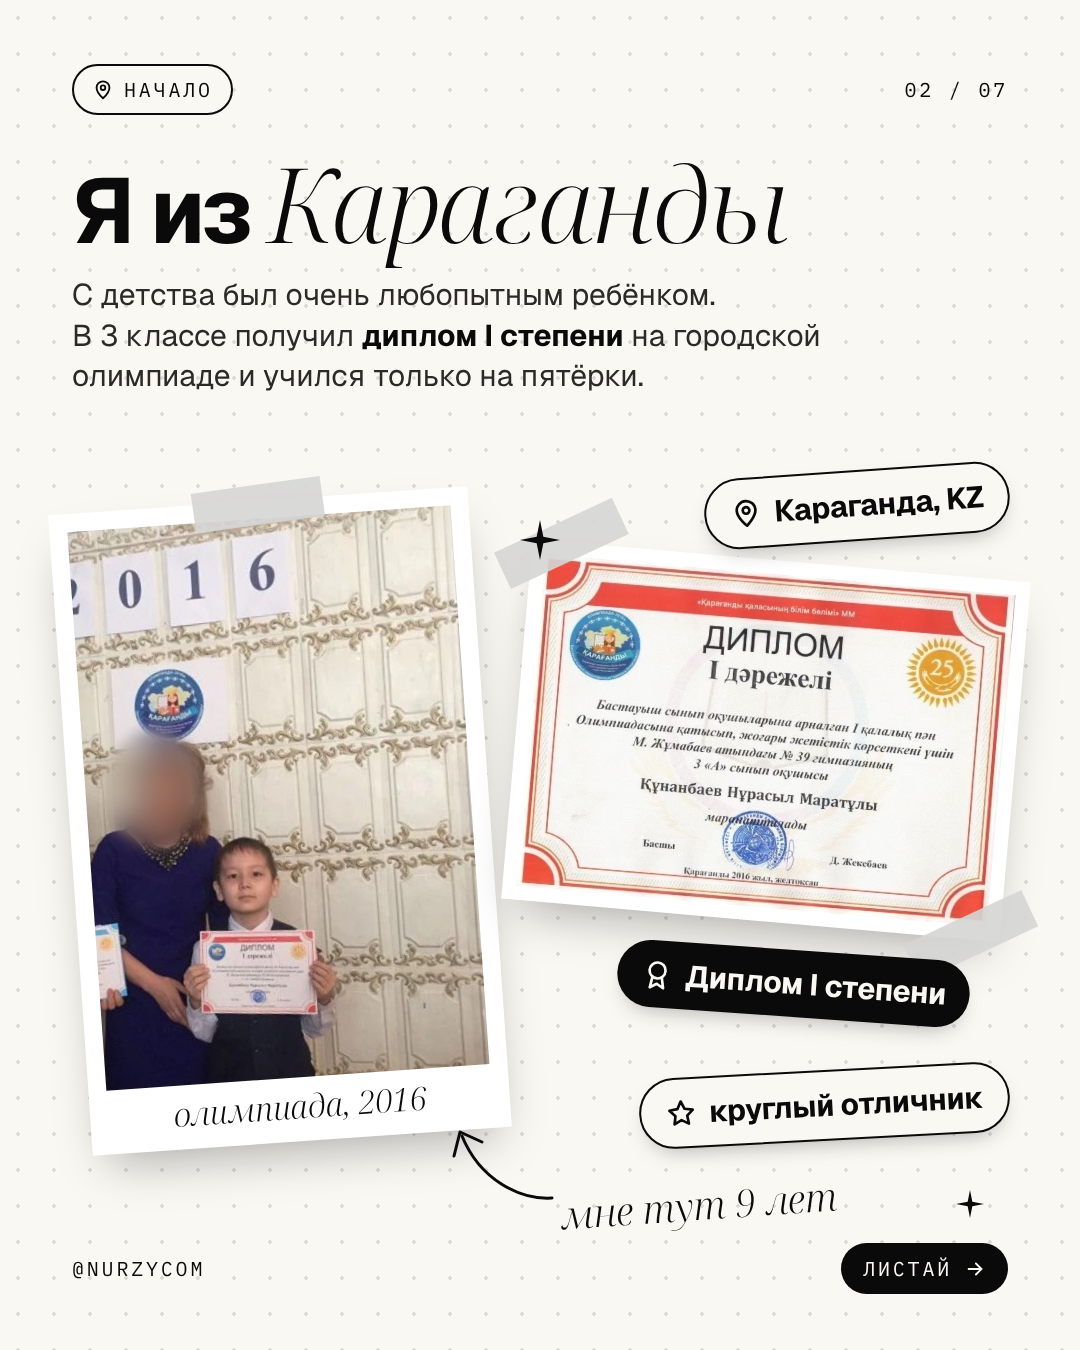
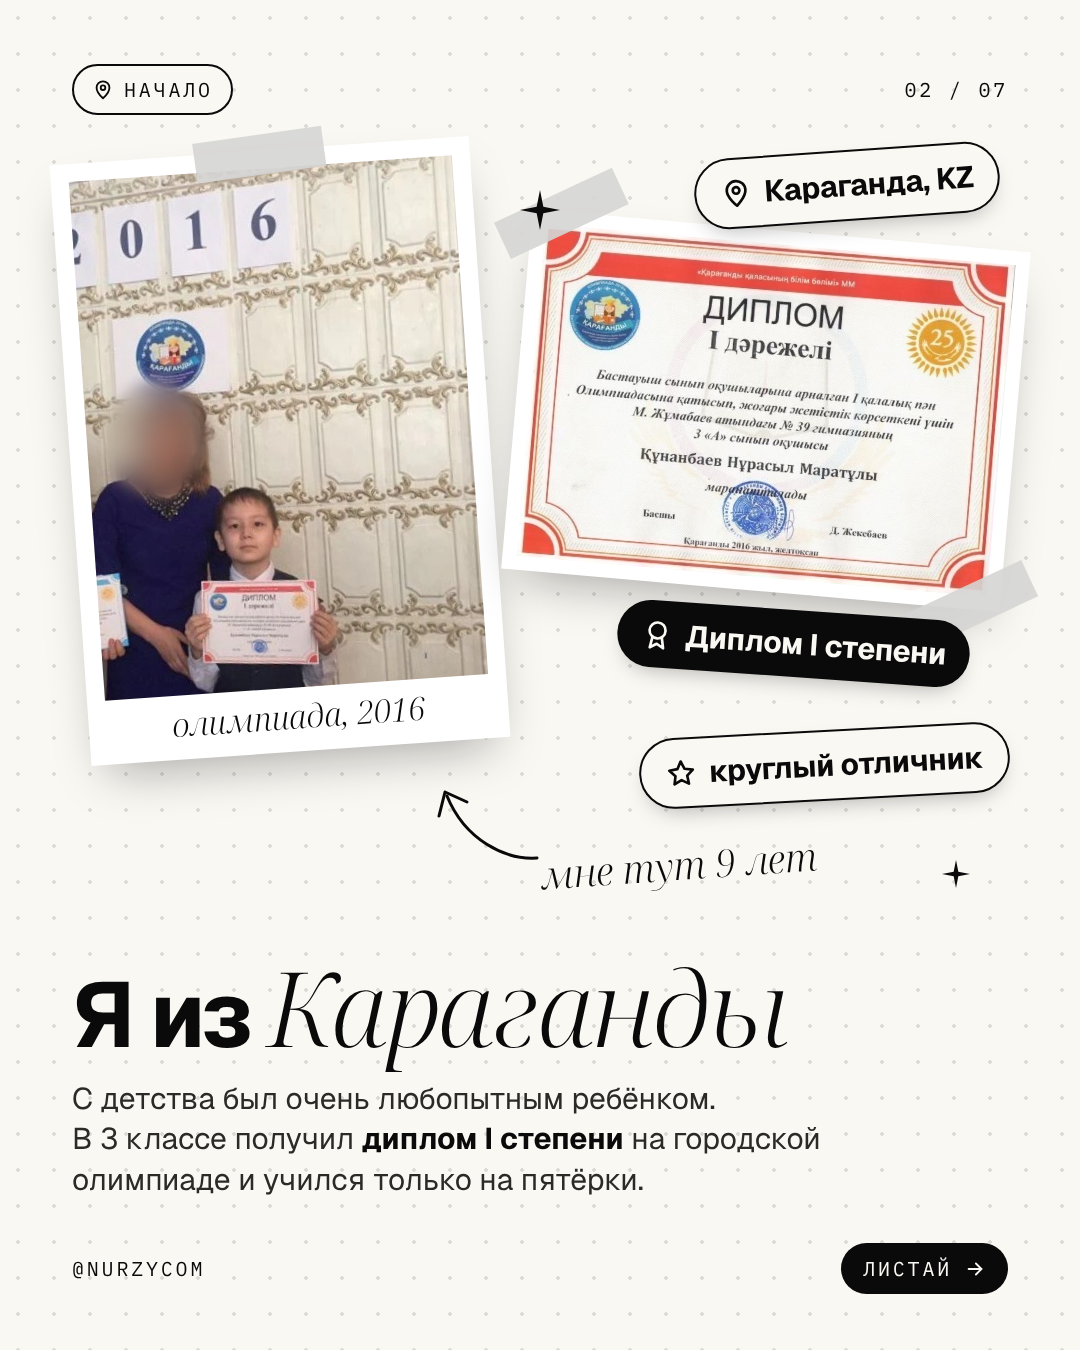
Story slide 2: images on top, text at the bottom
Claude-Session: https://claude.ai/code/session_01EUKBNPzc7y2DXSfnei23HU

diff --git a/social/story/slide-02.html b/social/story/slide-02.html
@@ -23,17 +23,18 @@
   .chip { display: inline-flex; align-items: center; gap: 10px; padding: 10px 18px; border: 2px solid var(--ink); border-radius: 999px; background: var(--paper); }
   .chip svg { width: 22px; height: 22px; }
 
-  h1 { margin-top: 36px; font: 700 92px/1 var(--sans); letter-spacing: -.035em; }
+  .text { position: absolute; left: 72px; right: 72px; bottom: 150px; }
+  h1 { font: 700 92px/1 var(--sans); letter-spacing: -.035em; }
   h1 em { font: 300 italic 104px/1 var(--serif); letter-spacing: -.02em; }
   .sub { margin-top: 18px; font-size: 30px; line-height: 1.35; max-width: 40ch; color: #2b2a27; }
   .sub b { font-weight: 700; color: var(--ink); }
 
   .card { position: absolute; background: #fff; box-shadow: 0 24px 50px -18px rgba(10,10,10,.35); }
   .card img { display: block; width: 100%; height: 100%; object-fit: cover; object-position: center top; }
-  .photo { left: 70px; top: 500px; width: 420px; padding: 18px 18px 64px; transform: rotate(-4deg); }
-  .photo .ph { width: 384px; height: 560px; }
+  .photo { left: 70px; top: 150px; width: 420px; padding: 18px 18px 64px; transform: rotate(-4deg); }
+  .photo .ph { width: 384px; height: 520px; }
   .photo .cap { position: absolute; left: 0; right: 0; bottom: 14px; text-align: center; font: 300 italic 32px var(--serif); }
-  .diploma { right: 64px; top: 560px; width: 500px; padding: 14px; transform: rotate(5deg); }
+  .diploma { right: 64px; top: 230px; width: 500px; padding: 14px; transform: rotate(5deg); }
   .diploma .ph { width: 472px; height: 333px; }
   .tape { position: absolute; width: 130px; height: 40px; background: rgba(213,213,212,.9); }
   .photo .tape { top: -16px; left: 50%; transform: translateX(-50%) rotate(-4deg); }
@@ -44,17 +45,17 @@
   .sticker svg { width: 32px; height: 32px; flex: none; }
   .s-dark { background: var(--ink); color: var(--paper); }
   .s-light { background: var(--paper); color: var(--ink); border: 2.5px solid var(--ink); }
-  .s1 { top: 470px; right: 70px; transform: rotate(-4deg); }
-  .s2 { top: 950px; right: 110px; transform: rotate(4deg); }
-  .s3 { top: 1070px; right: 70px; transform: rotate(-3deg); }
+  .s1 { top: 150px; right: 80px; transform: rotate(-4deg); }
+  .s2 { top: 610px; right: 110px; transform: rotate(4deg); }
+  .s3 { top: 730px; right: 70px; transform: rotate(-3deg); }
 
-  .note { position: absolute; top: 1185px; left: 560px; font: 300 italic 38px/1.1 var(--serif); transform: rotate(-4deg); }
-  .arrow { position: absolute; top: 1110px; left: 440px; width: 120px; height: 100px; }
+  .note { position: absolute; top: 845px; left: 540px; font: 300 italic 38px/1.1 var(--serif); transform: rotate(-4deg); }
+  .arrow { position: absolute; top: 770px; left: 425px; width: 120px; height: 100px; }
   .arrow path { fill: none; stroke: var(--ink); stroke-width: 3; stroke-linecap: round; stroke-linejoin: round; }
   .sparkle { position: absolute; width: 40px; height: 40px; }
   .sparkle path { fill: var(--ink); }
-  .sp1 { top: 520px; left: 520px; }
-  .sp2 { top: 1190px; right: 96px; width: 28px; height: 28px; }
+  .sp1 { top: 190px; left: 520px; }
+  .sp2 { top: 860px; right: 110px; width: 28px; height: 28px; }
 
   .foot { position: absolute; left: 72px; right: 72px; bottom: 56px; display: flex; justify-content: space-between; align-items: center; font: 400 20px var(--mono); letter-spacing: .14em; text-transform: uppercase; }
   .swipe { display: inline-flex; align-items: center; gap: 12px; padding: 12px 22px; background: var(--ink); color: var(--paper); border-radius: 999px; }
@@ -68,8 +69,6 @@
     <span>02 / 07</span>
   </div>
 
-  <h1>Я из <em>Караганды</em></h1>
-  <p class="sub">С детства был очень любопытным ребёнком. В&nbsp;3&nbsp;классе получил <b>диплом I&nbsp;степени</b> на городской олимпиаде и учился только на пятёрки.</p>
 
   <div class="card photo">
     <span class="tape"></span>
@@ -90,6 +89,11 @@
   <svg class="arrow" viewBox="0 0 120 100"><path d="M112 88 C 80 90, 40 70, 22 26"/><path d="M14 46 L 20 22 L 42 32"/></svg>
   <svg class="sparkle sp1" viewBox="0 0 24 24"><path d="M12 0 L14 10 L24 12 L14 14 L12 24 L10 14 L0 12 L10 10 Z"/></svg>
   <svg class="sparkle sp2" viewBox="0 0 24 24"><path d="M12 0 L14 10 L24 12 L14 14 L12 24 L10 14 L0 12 L10 10 Z"/></svg>
+
+  <div class="text">
+    <h1>Я из <em>Караганды</em></h1>
+    <p class="sub">С детства был очень любопытным ребёнком. В&nbsp;3&nbsp;классе получил <b>диплом I&nbsp;степени</b> на городской олимпиаде и учился только на пятёрки.</p>
+  </div>
 
   <div class="foot">
     <span>@nurzycom</span>
